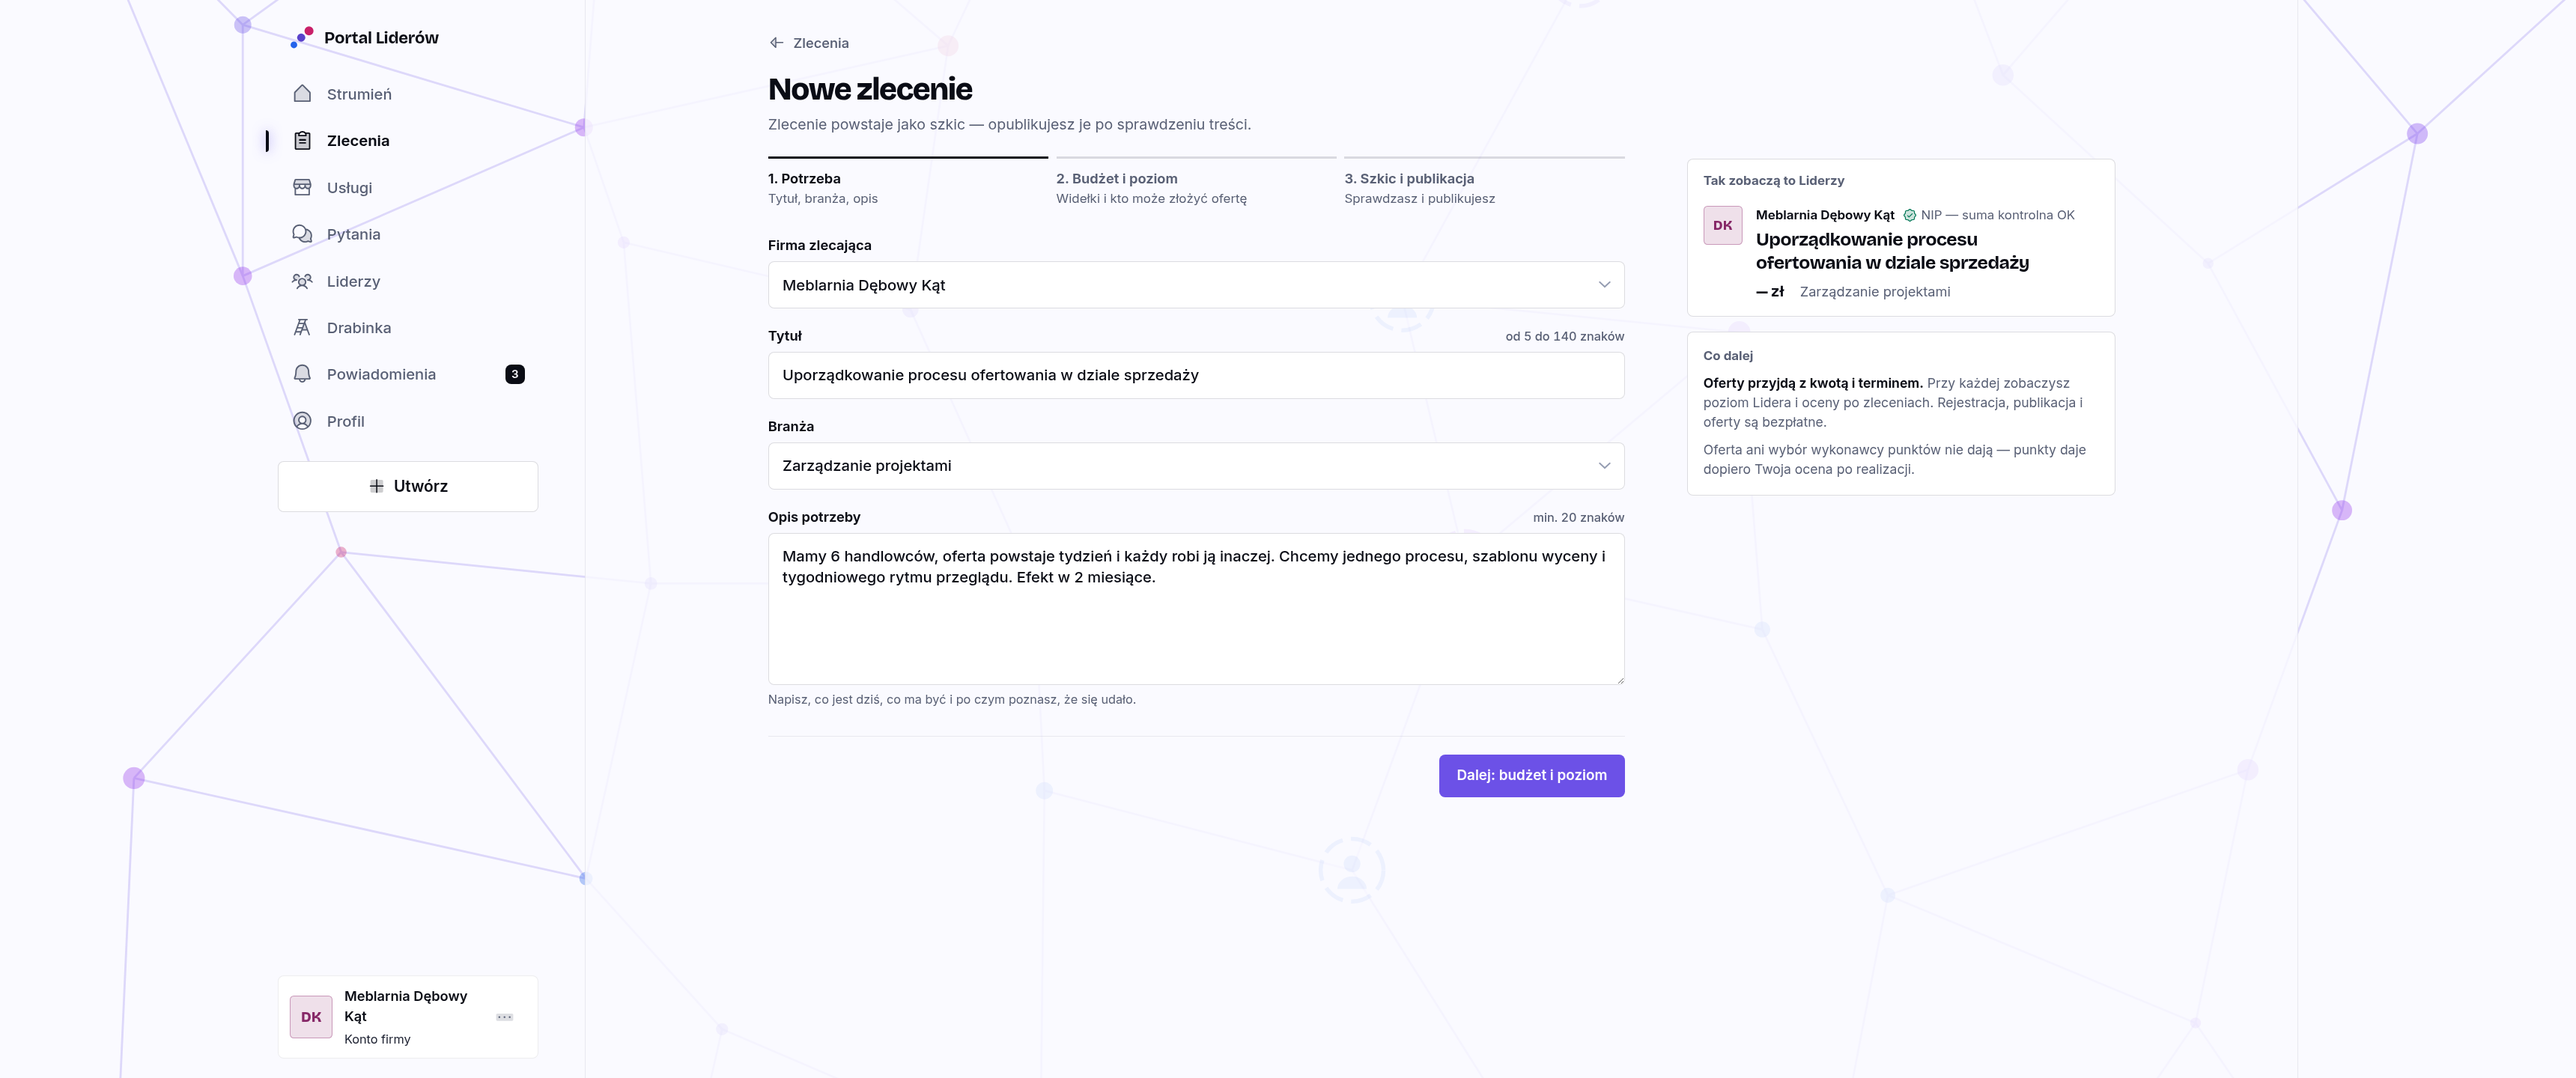
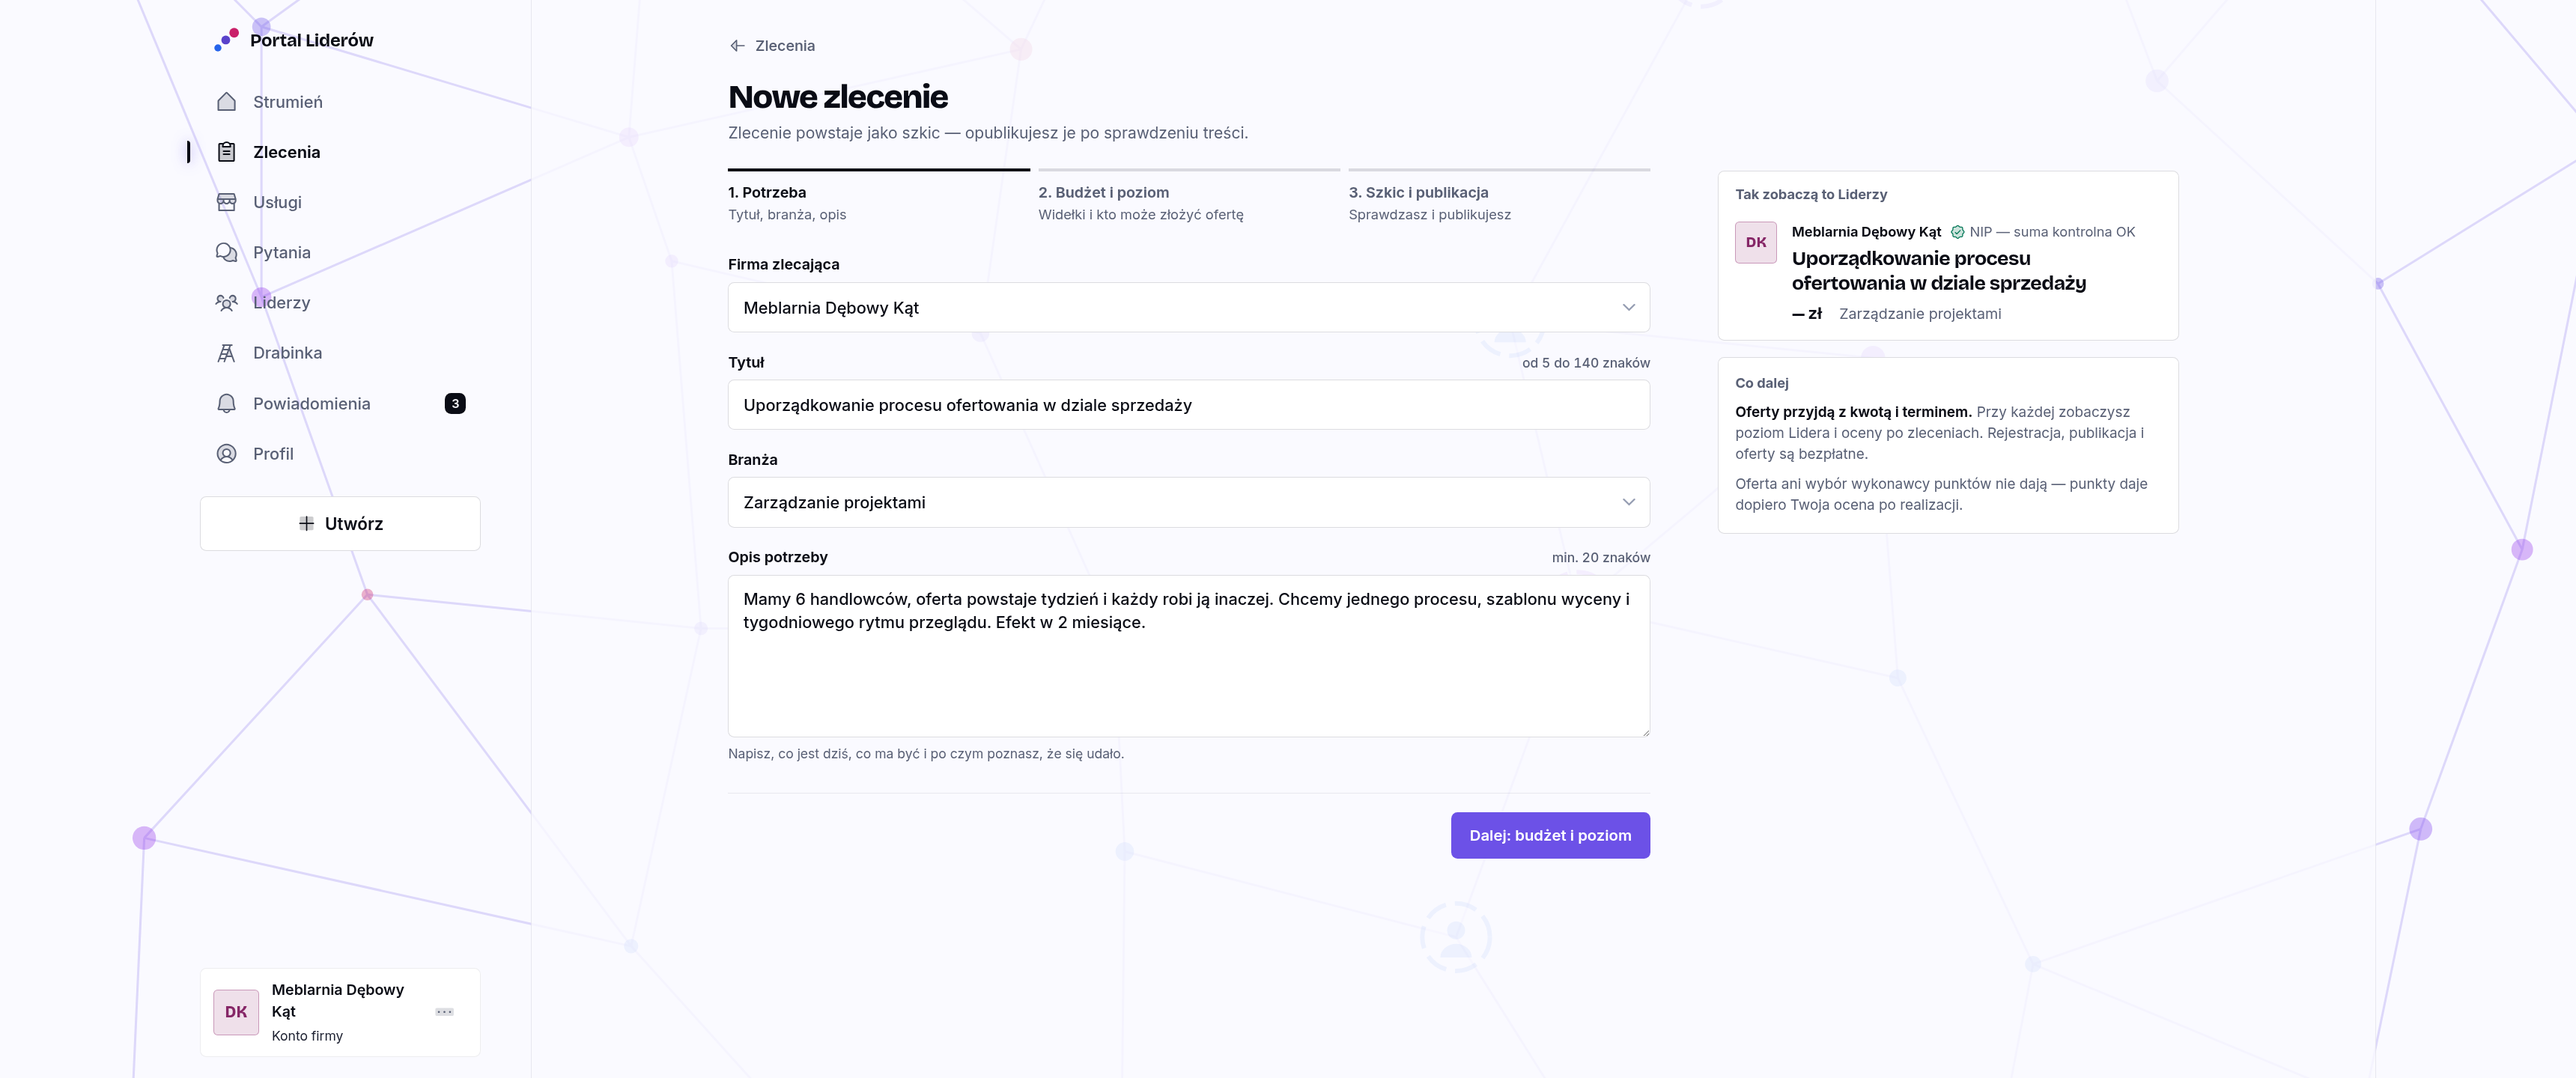
docs(v17): makieta układu 3440×1440 dla wszystkich ekranów V17 (wspólny szerokie.css)
Czeka na akceptację Macieja; zero zmian w apps/. Reguły tylko od 2400 px — 390 i 1512 bez zmian.

diff --git a/docs/redesign-propozycje/v17/pro/szerokie.css b/docs/redesign-propozycje/v17/pro/szerokie.css
@@ -1,0 +1,62 @@
+/* Duży ekran (Maciej 26.11: „Pamiętaj o mobile first ale też większych ekranach czyli 3440x1440”; „Tak, zrób makietę”).
+   Wspólny plik dla WSZYSTKICH ekranów V17. Całość siedzi w jednym @media: poniżej 2400 px nic się nie zmienia.
+   Zasada: skala całej ramy zamiast osobnych rozmiarów w komponentach, a szerokość zużywają KOLUMNY z istniejącą treścią —
+   nie dłuższe linie tekstu i nie nowe moduły bez danych. Ładować PO pro.css / rynek.css / p1b.css, przed tlo.css. */
+@media (min-width: 2400px) {
+  html { zoom: 1.4; }
+  .tlo-siec { width: 100%; height: 100%; }
+  .rama, .nav { min-height: calc(100vh / 1.4); }
+  .nav { height: calc(100vh / 1.4); }
+  .kolumna { min-height: calc(100vh / 1.4); }
+  .rama.szeroka { grid-template-columns: 280px minmax(0, 1760px); gap: 0 36px; }
+  .szeroka .kolumna { border-right: 1px solid var(--line); }
+  .fm { grid-template-columns: minmax(0, 880px) 440px; justify-content: center; gap: 0 64px; padding-top: 16px; }
+  .wt { grid-template-columns: minmax(0, 920px) 440px; justify-content: center; gap: 0 64px; padding-top: 16px; }
+  .st { width: 100%; max-width: 1480px; margin: 0 auto; padding-top: 16px; }
+  .br-lista { display: grid; grid-template-columns: 1fr 1fr; align-items: stretch; }
+  .br-lista > .zl-w:nth-child(odd) { border-right: 1px solid var(--line); }
+  .br-lista > .zl-w { align-content: start; }
+  .rn-siatka { grid-template-columns: repeat(4, minmax(0, 1fr)); }
+  .br-linki { grid-template-columns: repeat(3, minmax(0, 1fr)); }
+  .dwie-f { display: grid; grid-template-columns: 1fr 1fr; gap: 0 64px; align-items: start; }
+  .st .krok-l { display: grid; grid-template-columns: repeat(4, minmax(0, 1fr)); gap: 0 32px; }
+  .st .krok-l li { grid-template-columns: minmax(0, 1fr); gap: 10px; border-bottom: 0; align-content: start; }
+  .dl-hero { padding: 24px 0 8px; text-align: center; }
+  .dl-hero p { margin-left: auto !important; margin-right: auto !important; }
+  .dl-hero .st-h1, .dl-hero .st-lid { margin-left: auto; margin-right: auto; }
+  .dl-hero .ak { justify-content: center; }
+  .dl-drogi { display: grid; grid-template-columns: repeat(3, minmax(0, 1fr)); gap: 0 32px; }
+  .dl-drogi > .zl-w { grid-template-columns: 40px minmax(0, 1fr) !important; align-content: start; align-items: start !important; }
+  .dl-drogi .droga-cta { grid-column: 2 !important; margin-top: 10px; }
+  .st .rn-siatka { grid-template-columns: repeat(3, minmax(0, 1fr)); }
+
+  /* ── Wdrożone ekrany P0 i P1 ── */
+  /* Strumień (i inne ekrany z prawą kolumną): nawigacja · strumień · prawa kolumna rozłożona na dwie.
+     Strumień zostaje 660 px — dłuższe linie czytałoby się gorzej. */
+  .rama:not(.szeroka) { grid-template-columns: 280px minmax(0, 660px) minmax(0, 1056px); gap: 0 40px; }
+  .rama:not(.szeroka) .bok-lepki:has(> .hero-dr) { display: grid; grid-template-columns: minmax(0, 480px) minmax(0, 1fr); gap: 16px 40px; align-items: start; }
+  .rama:not(.szeroka) .bok-lepki > .hero-dr { grid-row: 1 / span 3; }
+  /* Lista zleceń: wiersze w dwóch kolumnach, filtry po prawej. */
+  .rama:not(.szeroka):has(.rn-filtr) { grid-template-columns: 280px minmax(0, 1356px) 360px; }
+  .kolumna:has(> .zl-w) { display: grid; grid-template-columns: 1fr 1fr; align-content: start; }
+  .kolumna:has(> .zl-w) > :not(.zl-w) { grid-column: 1 / -1; }
+  .kolumna > .zl-w { align-content: start; }
+  .kolumna > .zl-w:nth-of-type(odd) { border-right: 1px solid var(--line); }
+  /* Zlecenie z ofertami: opis i fakty w lewej kolumnie, porównanie ofert obok — oferty widać bez przewijania. */
+  .rn-det:has(.rn-oferty) { display: grid; grid-template-columns: 520px minmax(0, 1fr); grid-template-rows: repeat(5, max-content) 1fr; gap: 0 56px; align-items: start; padding-top: 16px; }
+  .rn-det:has(.rn-oferty) > * { grid-column: 1; }
+  .rn-det:has(.rn-oferty) > .rn-oferty { grid-column: 2; grid-row: 1 / span 6; margin-top: 0; padding-top: 6px; border-top: 0; }
+  .rn-det:has(.rn-oferty) > .rn-stopka { grid-column: 1 / -1; }
+  .rn-det:has(.rn-oferty) .rn-2 { grid-template-columns: minmax(0, 1fr); gap: 20px; }
+  /* Usługa: okładka · opis, Lider i oceny · pakiety. */
+  .rn-us { grid-template-columns: minmax(0, 1fr) minmax(460px, 1fr) 380px; grid-template-areas: 'gl tr pak'; gap: 0 48px; padding-top: 16px; }
+  .rn-us .gl { position: sticky; top: 16px; }
+  .rn-us .tr > .rn-sek:first-child { margin-top: 10px; padding-top: 0; border-top: 0; }
+  .rn-ok .okl { aspect-ratio: 4 / 3; }
+  .rn-filtr { padding: 16px; border-radius: var(--radius); background: color-mix(in srgb, var(--bg) 90%, transparent); }
+  /* Profil: tekst „O mnie” w mierze do czytania, realizacje w trzech kolumnach. */
+  .gh-prawa .readme p { max-width: 72ch; }
+  .gh-prawa .przypiete { grid-template-columns: repeat(3, minmax(0, 1fr)); }
+  /* Drabinka: trzy wymogi obok siebie — nazwa i liczba blisko siebie, nie na dwóch końcach ekranu. */
+  .wymogi { display: grid; grid-template-columns: repeat(3, minmax(0, 1fr)); gap: 0 32px; }
+}

diff --git a/docs/redesign-propozycje/v17/pro/p1b.css b/docs/redesign-propozycje/v17/pro/p1b.css
@@ -223,37 +223,5 @@ table.por .my { background: var(--surface); }
 .uk .ikonka[aria-pressed='true'] { background: var(--text-strong) !important; color: var(--surface); }
 .uk .ikonka[aria-pressed='true'] i { color: var(--surface); }
 
-/* ───────── Duży ekran 3440×1440 (Maciej 26.11: „mobile first ale też większych ekranach”) ─────────
-   Skala całej ramy zamiast osobnych rozmiarów w każdym komponencie, a szerokość zużywają KOLUMNY, nie dłuższe linie tekstu.
-   Przy akceptacji ta reguła wchodzi do wszystkich ekranów V17 (także P0 i P1). */
-@media (min-width: 2400px) {
-  html { zoom: 1.3; }
-  .tlo-siec { width: 100%; height: 100%; }
-  .rama, .nav { min-height: calc(100vh / 1.3); }
-  .nav { height: calc(100vh / 1.3); }
-  .kolumna { min-height: calc(100vh / 1.3); }
-  .rama.szeroka { grid-template-columns: 280px minmax(0, 1760px); }
-  .szeroka .kolumna { border-right: 1px solid var(--line); }
-  .fm { grid-template-columns: minmax(0, 880px) 440px; justify-content: center; gap: 0 64px; padding-top: 16px; }
-  .wt { grid-template-columns: minmax(0, 920px) 440px; justify-content: center; gap: 0 64px; padding-top: 16px; }
-  .st { width: 100%; max-width: 1480px; margin: 0 auto; padding-top: 16px; }
-  .br-lista { display: grid; grid-template-columns: 1fr 1fr; align-items: stretch; }
-  .br-lista > .zl-w:nth-child(odd) { border-right: 1px solid var(--line); }
-  .br-lista > .zl-w { align-content: start; }
-  .rn-siatka { grid-template-columns: repeat(4, minmax(0, 1fr)); }
-  .br-linki { grid-template-columns: repeat(3, minmax(0, 1fr)); }
-  .dwie-f { display: grid; grid-template-columns: 1fr 1fr; gap: 0 64px; align-items: start; }
-  .st .krok-l { display: grid; grid-template-columns: repeat(4, minmax(0, 1fr)); gap: 0 32px; }
-  .st .krok-l li { grid-template-columns: minmax(0, 1fr); gap: 10px; border-bottom: 0; align-content: start; }
-  .dl-hero { padding: 24px 0 8px; text-align: center; }
-  .dl-hero p { margin-left: auto !important; margin-right: auto !important; }
-  .dl-hero .st-h1, .dl-hero .st-lid { margin-left: auto; margin-right: auto; }
-  .dl-hero .ak { justify-content: center; }
-  .dl-drogi { display: grid; grid-template-columns: repeat(3, minmax(0, 1fr)); gap: 0 32px; }
-  .dl-drogi > .zl-w { grid-template-columns: 40px minmax(0, 1fr) !important; align-content: start; align-items: start !important; }
-  .dl-drogi .droga-cta { grid-column: 2 !important; margin-top: 10px; }
-  .st .rn-siatka { grid-template-columns: repeat(3, minmax(0, 1fr)); }
-}
-
 .br-m { display: none !important; }
 @media (max-width: 720px) { .br-d { display: none !important; } .br-m { display: flex !important; margin-top: 14px; } }

diff --git a/docs/redesign-propozycje/v17/pro/drabinka.html b/docs/redesign-propozycje/v17/pro/drabinka.html
@@ -10,9 +10,12 @@
 <link href="https://fonts.googleapis.com/css2?family=Bricolage+Grotesque:opsz,wght@12..96,600;12..96,700;12..96,750;12..96,800&family=Inter:wght@400;500;550;600;650;700&display=swap" rel="stylesheet">
 <link rel="stylesheet" href="https://unpkg.com/@phosphor-icons/web@2.1.1/src/duotone/style.css">
 <link rel="stylesheet" href="pro.css">
+<link rel="stylesheet" href="szerokie.css">
+<link rel="stylesheet" href="tlo.css" media="(min-width: 2400px)">
 </head>
 <body>
 <script src="pro.js"></script>
-<script>Pro.drabinka();</script>
+<script src="tlo.js"></script>
+<script>Pro.drabinka();if (matchMedia('(min-width: 2400px)').matches) TloSiec();</script>
 </body>
 </html>

diff --git a/docs/redesign-propozycje/v17/pro/profil.html b/docs/redesign-propozycje/v17/pro/profil.html
@@ -10,9 +10,12 @@
 <link href="https://fonts.googleapis.com/css2?family=Bricolage+Grotesque:opsz,wght@12..96,600;12..96,700;12..96,750;12..96,800&family=Inter:wght@400;500;550;600;650;700&display=swap" rel="stylesheet">
 <link rel="stylesheet" href="https://unpkg.com/@phosphor-icons/web@2.1.1/src/duotone/style.css">
 <link rel="stylesheet" href="pro.css">
+<link rel="stylesheet" href="szerokie.css">
+<link rel="stylesheet" href="tlo.css" media="(min-width: 2400px)">
 </head>
 <body>
 <script src="pro.js"></script>
-<script>Pro.profil();</script>
+<script src="tlo.js"></script>
+<script>Pro.profil();if (matchMedia('(min-width: 2400px)').matches) TloSiec();</script>
 </body>
 </html>

diff --git a/docs/redesign-propozycje/v17/pro/feed.html b/docs/redesign-propozycje/v17/pro/feed.html
@@ -10,9 +10,12 @@
 <link href="https://fonts.googleapis.com/css2?family=Bricolage+Grotesque:opsz,wght@12..96,600;12..96,700;12..96,750;12..96,800&family=Inter:wght@400;500;550;600;650;700&display=swap" rel="stylesheet">
 <link rel="stylesheet" href="https://unpkg.com/@phosphor-icons/web@2.1.1/src/duotone/style.css">
 <link rel="stylesheet" href="pro.css">
+<link rel="stylesheet" href="szerokie.css">
+<link rel="stylesheet" href="tlo.css" media="(min-width: 2400px)">
 </head>
 <body>
 <script src="pro.js"></script>
-<script>Pro.feed();</script>
+<script src="tlo.js"></script>
+<script>Pro.feed();if (matchMedia('(min-width: 2400px)').matches) TloSiec();</script>
 </body>
 </html>

diff --git a/docs/redesign-propozycje/v17/pro/zlecenia.html b/docs/redesign-propozycje/v17/pro/zlecenia.html
@@ -11,10 +11,13 @@
 <link rel="stylesheet" href="https://unpkg.com/@phosphor-icons/web@2.1.1/src/duotone/style.css">
 <link rel="stylesheet" href="pro.css">
 <link rel="stylesheet" href="rynek.css">
+<link rel="stylesheet" href="szerokie.css">
+<link rel="stylesheet" href="tlo.css" media="(min-width: 2400px)">
 </head>
 <body>
 <script src="pro.js"></script>
 <script src="rynek.js"></script>
-<script>Pro.zlecenia();</script>
+<script src="tlo.js"></script>
+<script>Pro.zlecenia();if (matchMedia('(min-width: 2400px)').matches) TloSiec();</script>
 </body>
 </html>

diff --git a/docs/redesign-propozycje/v17/pro/zlecenie.html b/docs/redesign-propozycje/v17/pro/zlecenie.html
@@ -11,10 +11,13 @@
 <link rel="stylesheet" href="https://unpkg.com/@phosphor-icons/web@2.1.1/src/duotone/style.css">
 <link rel="stylesheet" href="pro.css">
 <link rel="stylesheet" href="rynek.css">
+<link rel="stylesheet" href="szerokie.css">
+<link rel="stylesheet" href="tlo.css" media="(min-width: 2400px)">
 </head>
 <body>
 <script src="pro.js"></script>
 <script src="rynek.js"></script>
-<script>Pro.zlecenie();</script>
+<script src="tlo.js"></script>
+<script>Pro.zlecenie();if (matchMedia('(min-width: 2400px)').matches) TloSiec();</script>
 </body>
 </html>

diff --git a/docs/redesign-propozycje/v17/pro/usluga.html b/docs/redesign-propozycje/v17/pro/usluga.html
@@ -11,10 +11,13 @@
 <link rel="stylesheet" href="https://unpkg.com/@phosphor-icons/web@2.1.1/src/duotone/style.css">
 <link rel="stylesheet" href="pro.css">
 <link rel="stylesheet" href="rynek.css">
+<link rel="stylesheet" href="szerokie.css">
+<link rel="stylesheet" href="tlo.css" media="(min-width: 2400px)">
 </head>
 <body>
 <script src="pro.js"></script>
 <script src="rynek.js"></script>
-<script>Pro.usluga();</script>
+<script src="tlo.js"></script>
+<script>Pro.usluga();if (matchMedia('(min-width: 2400px)').matches) TloSiec();</script>
 </body>
 </html>

diff --git a/docs/redesign-propozycje/v17/pro/uslugi.html b/docs/redesign-propozycje/v17/pro/uslugi.html
@@ -11,10 +11,13 @@
 <link rel="stylesheet" href="https://unpkg.com/@phosphor-icons/web@2.1.1/src/duotone/style.css">
 <link rel="stylesheet" href="pro.css">
 <link rel="stylesheet" href="rynek.css">
+<link rel="stylesheet" href="szerokie.css">
+<link rel="stylesheet" href="tlo.css" media="(min-width: 2400px)">
 </head>
 <body>
 <script src="pro.js"></script>
 <script src="rynek.js"></script>
-<script>Pro.uslugi();</script>
+<script src="tlo.js"></script>
+<script>Pro.uslugi();if (matchMedia('(min-width: 2400px)').matches) TloSiec();</script>
 </body>
 </html>

diff --git a/docs/redesign-propozycje/v17/pro/branza-uslug.html b/docs/redesign-propozycje/v17/pro/branza-uslug.html
@@ -12,6 +12,7 @@
 <link rel="stylesheet" href="pro.css">
 <link rel="stylesheet" href="rynek.css">
 <link rel="stylesheet" href="p1b.css">
+<link rel="stylesheet" href="szerokie.css">
 <link rel="stylesheet" href="tlo.css">
 </head>
 <body>

diff --git a/docs/redesign-propozycje/v17/pro/branza-zlecen.html b/docs/redesign-propozycje/v17/pro/branza-zlecen.html
@@ -12,6 +12,7 @@
 <link rel="stylesheet" href="pro.css">
 <link rel="stylesheet" href="rynek.css">
 <link rel="stylesheet" href="p1b.css">
+<link rel="stylesheet" href="szerokie.css">
 <link rel="stylesheet" href="tlo.css">
 </head>
 <body>

diff --git a/docs/redesign-propozycje/v17/pro/dla-firm.html b/docs/redesign-propozycje/v17/pro/dla-firm.html
@@ -12,6 +12,7 @@
 <link rel="stylesheet" href="pro.css">
 <link rel="stylesheet" href="rynek.css">
 <link rel="stylesheet" href="p1b.css">
+<link rel="stylesheet" href="szerokie.css">
 <link rel="stylesheet" href="tlo.css">
 </head>
 <body>
